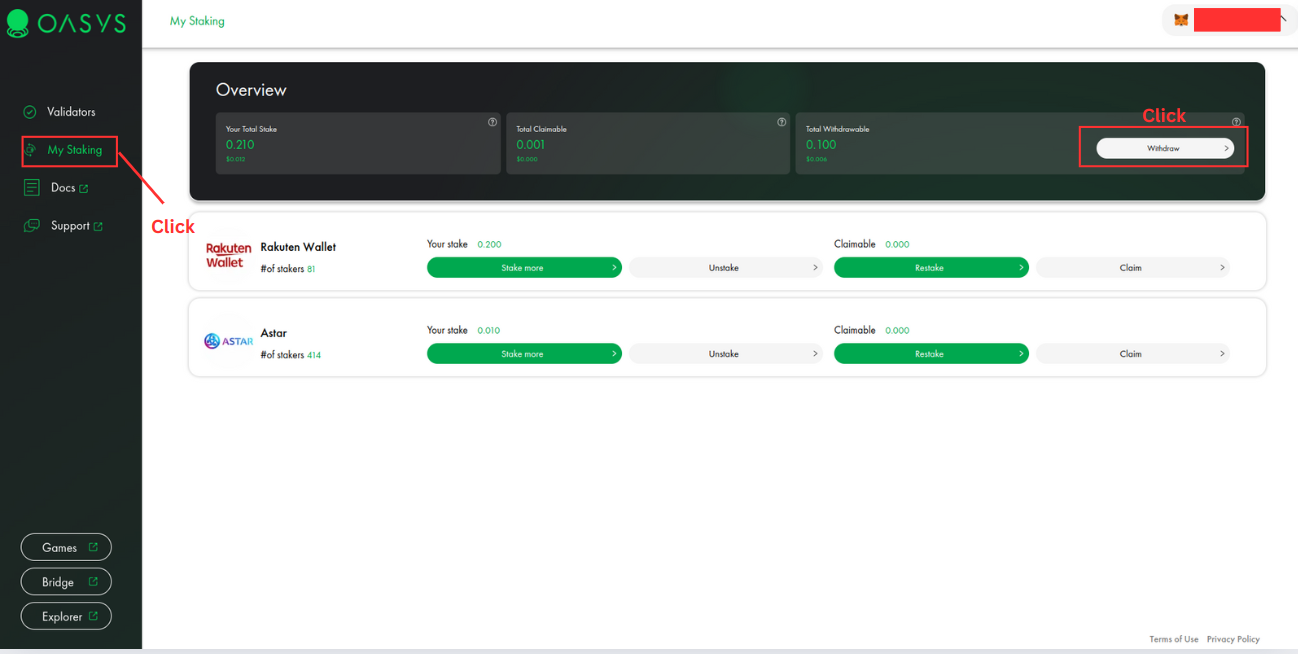
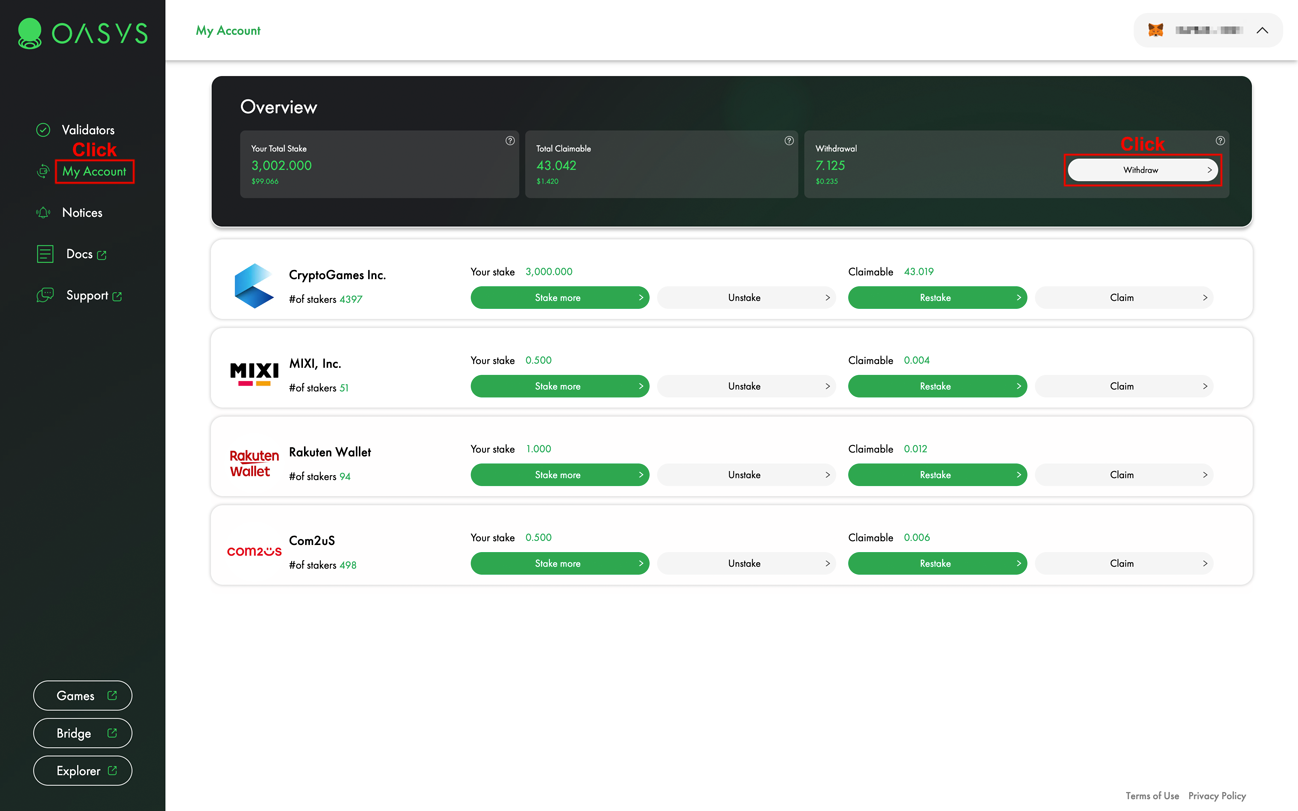
Fix staking documentation and update related images

diff --git a/docs/staking/1-stake-oasys/1-2-stake-hub.md b/docs/staking/1-stake-oasys/1-2-stake-hub.md
@@ -54,7 +54,6 @@ If you have successfully restaked, the following message appears.
 
 You can see the transaction activity in metamask.
 
-
 ## 4. Claim
 
 ### 1. Visit [Oasys Staking](https://staking.oasys.games) -> Select the validator you have previously staked.
@@ -67,7 +66,7 @@ You can see the transaction activity in metamask.
 
 ## 5. Withdraw
 
-### 1. Visit [Oasys Staking](https://staking.oasys.games) -> click my staking -> select withdraw button
+### 1. Visit [Oasys Staking](https://staking.oasys.games) -> click my account -> select withdraw button
 
 ![staking10](/img/docs/techdocs/oasys-hub/my_staking_page.png)
 
